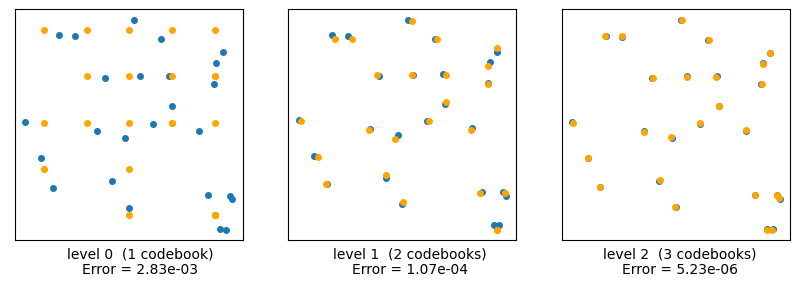
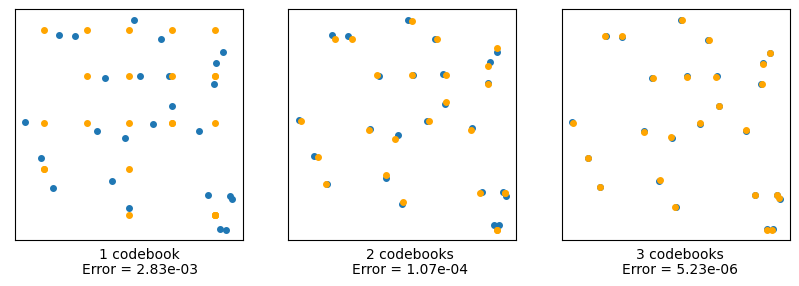
Built site for gh-pages

Changed region(s): [[0.7509, 0.8671, 0.9612, 0.9231], [0.4205, 0.8671, 0.6008, 0.9231], [0.0901, 0.8671, 0.2703, 0.9231]]

diff --git a/posts/2023-06-12-RVQ.html b/posts/2023-06-12-RVQ.html
@@ -1144,7 +1144,7 @@ if (outputEl) {{
 <span id="cb19-9"><a href="#cb19-9" aria-hidden="true" tabindex="-1"></a>    ax.set_xticks([])</span>
 <span id="cb19-10"><a href="#cb19-10" aria-hidden="true" tabindex="-1"></a>    ax.set_yticks([])</span>
 <span id="cb19-11"><a href="#cb19-11" aria-hidden="true" tabindex="-1"></a>    hpos <span class="op">=</span> <span class="dv">1</span><span class="op">/</span>K<span class="op">*</span><span class="fl">0.85</span> <span class="op">+</span> <span class="dv">1</span><span class="op">/</span>K<span class="op">*</span><span class="fl">0.81</span><span class="op">*</span>axi <span class="cf">if</span> K<span class="op">==</span><span class="dv">4</span> <span class="cf">else</span> <span class="fl">.25</span> <span class="op">+</span> <span class="fl">.27</span><span class="op">*</span>axi</span>
-<span id="cb19-12"><a href="#cb19-12" aria-hidden="true" tabindex="-1"></a>    fig.text(hpos, <span class="fl">.05</span>, <span class="ss">f"level </span><span class="sc">{</span>axi<span class="sc">}</span><span class="ss">  (</span><span class="sc">{</span>axi<span class="op">+</span><span class="dv">1</span><span class="sc">}</span><span class="ss"> codebook</span><span class="sc">{</span><span class="st">'s'</span> <span class="cf">if</span> axi<span class="op">&gt;</span><span class="dv">0</span> <span class="cf">else</span> <span class="st">''</span><span class="sc">}</span><span class="ss">)"</span>, ha<span class="op">=</span><span class="st">'center'</span>)</span>
+<span id="cb19-12"><a href="#cb19-12" aria-hidden="true" tabindex="-1"></a>    fig.text(hpos, <span class="fl">.05</span>, <span class="ss">f"</span><span class="sc">{</span>axi<span class="op">+</span><span class="dv">1</span><span class="sc">}</span><span class="ss"> codebook</span><span class="sc">{</span><span class="st">'s'</span> <span class="cf">if</span> axi<span class="op">&gt;</span><span class="dv">0</span> <span class="cf">else</span> <span class="st">''</span><span class="sc">}</span><span class="ss">"</span>, ha<span class="op">=</span><span class="st">'center'</span>)</span>
 <span id="cb19-13"><a href="#cb19-13" aria-hidden="true" tabindex="-1"></a></span>
 <span id="cb19-14"><a href="#cb19-14" aria-hidden="true" tabindex="-1"></a>    error <span class="op">=</span> ((recon <span class="op">-</span> data)<span class="op">**</span><span class="dv">2</span>).mean()</span>
 <span id="cb19-15"><a href="#cb19-15" aria-hidden="true" tabindex="-1"></a>    fig.text(hpos, <span class="fl">.0001</span>, <span class="ss">f"Error = </span><span class="sc">{</span>error<span class="sc">:.2e}</span><span class="ss">"</span>, ha<span class="op">=</span><span class="st">'center'</span>)</span>

diff --git a/index.html b/index.html
@@ -176,7 +176,7 @@ ul.task-list li input[type="checkbox"] {
 
 <div class="quarto-listing quarto-listing-container-default" id="listing-listing">
 <div class="list quarto-listing-default">
-<div class="quarto-post image-right" data-index="0" data-categories="compression,ssl" data-listing-date-sort="1686546000000" data-listing-file-modified-sort="1686666261359" data-listing-date-modified-sort="NaN" data-listing-reading-time-sort="13">
+<div class="quarto-post image-right" data-index="0" data-categories="compression,ssl" data-listing-date-sort="1686546000000" data-listing-file-modified-sort="1686666468968" data-listing-date-modified-sort="NaN" data-listing-reading-time-sort="13">
 <div class="thumbnail">
 <p><a href="./posts/2023-06-12-RVQ.html"> <img src="./posts/images/rvq_image.png" class="thumbnail-image"> </a></p>
 </div>
